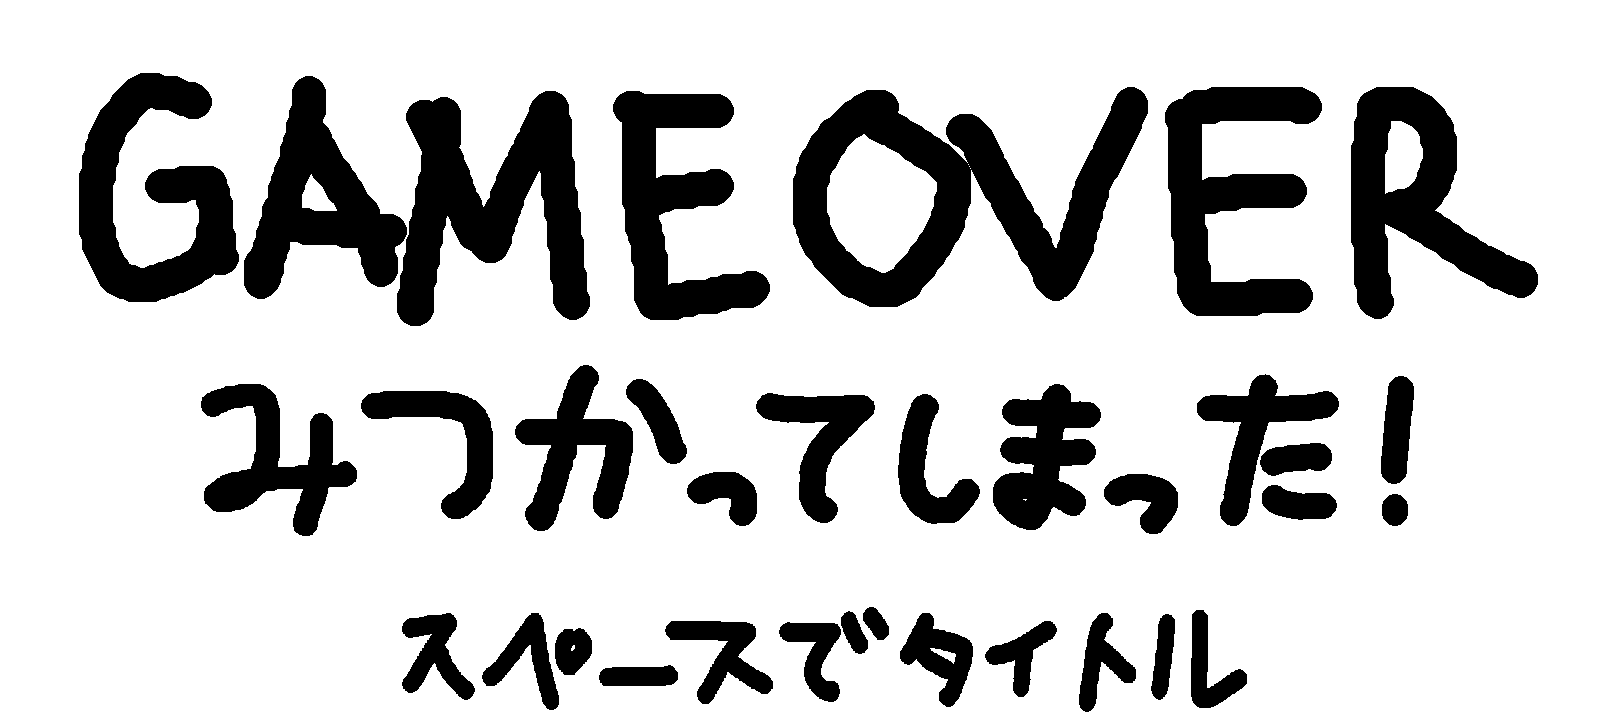
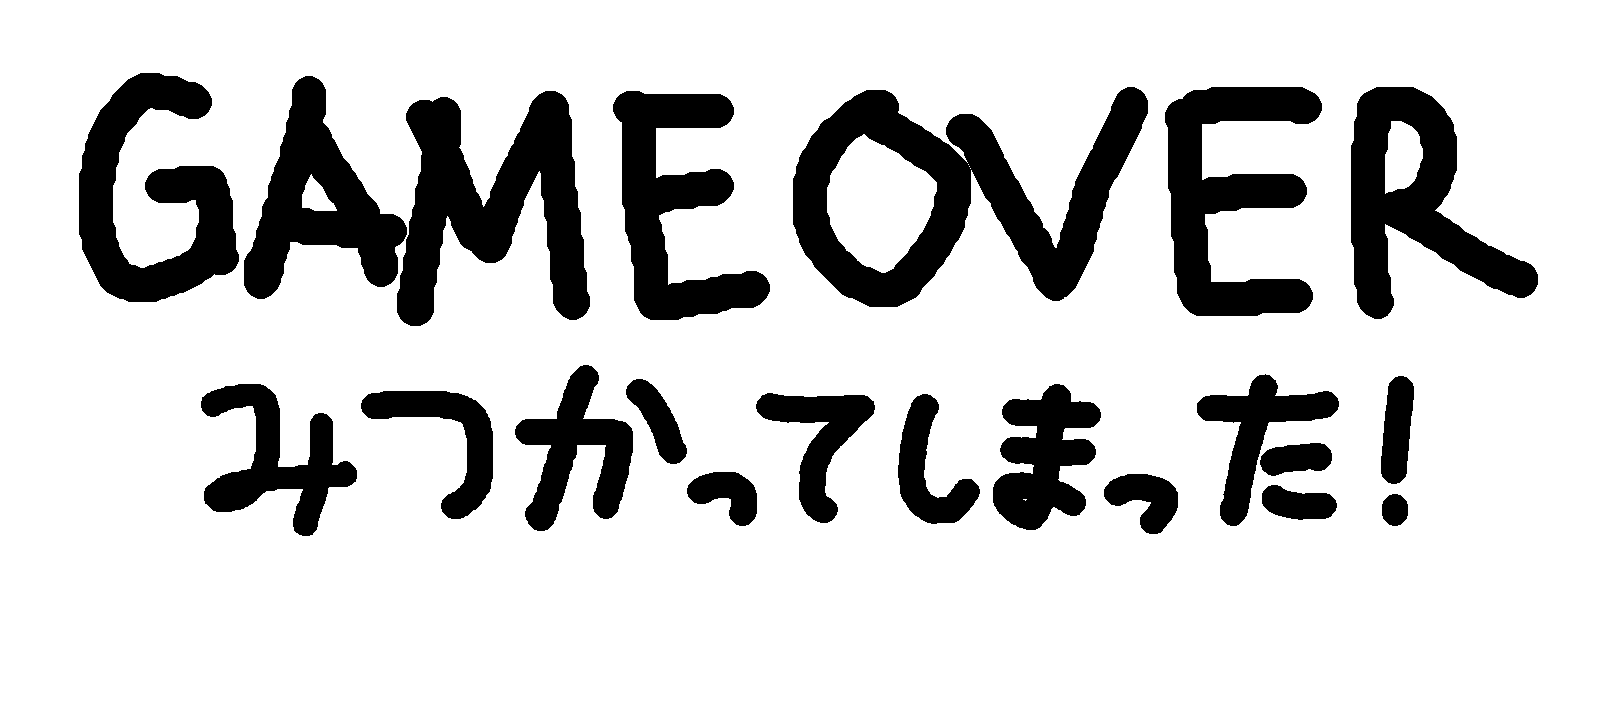
描画：オブジェクトと自機前後を交換した、ゲームオーバーの画面を追加しました 更新：caseゲームオーバーに関する付けました

Changed region(s): [[0.25, 0.825, 0.7812, 1.0]]

diff --git a/main.cpp b/main.cpp
@@ -121,9 +121,16 @@ int WINAPI WinMain(HINSTANCE, HINSTANCE, LPSTR, int)
 	//
 	int score[4] = { 0 };
 
-	/*int titleTimer = 0;*/
 
 	/*リソース関連*/
+
+	//タイトルに関するタイマー
+	int titleTimer = 0;
+	int titleTimer2 = 0;
+	//ゲームオーバーに関するタイマー＆＆フラグ
+	int gameOverTimer = 0;
+	int gameOverFlag = 0;
+	int gameOverFlagTimer = 0;
 
 	//飼い主
 	int ownerTexHundle[] =
@@ -145,11 +152,17 @@ int WINAPI WinMain(HINSTANCE, HINSTANCE, LPSTR, int)
 		Novice::LoadTexture("./Resources./Pictures./title.png"),//差し替えました
 		Novice::LoadTexture("./Resources./Pictures./background.png"),//差し替えました
 		Novice::LoadTexture("./Resources./Pictures./stage.png"),//差し替えました
-		Novice::LoadTexture("./Resources./Pictures./gameOver.png"),
-		Novice::LoadTexture("./Resources./Pictures./title2.png")//タイトル２追加した
+		Novice::LoadTexture("./Resources./Pictures./gameover.png"),
+		Novice::LoadTexture("./Resources./Pictures./title2.png"),//タイトル2追加した
+		Novice::LoadTexture("./Resources./Pictures./gameover2.png")//ゲームオーバー2追加
+
 	};
 	//スコア用の数字
 	int numberHandle = Novice::LoadTexture("./Resources./Pictures./num.png");
+	int scoreHandle = Novice::LoadTexture("./Resources./Pictures./score.png");
+
+	//隠れ場所
+	int bookHandle = Novice::LoadTexture("./Resources./Pictures./book.png");
 
 	//プレイヤー
 #pragma region //WalkTexturhandle
@@ -215,6 +228,28 @@ int WINAPI WinMain(HINSTANCE, HINSTANCE, LPSTR, int)
 		{
 		case TITLE: //タイトル
 
+			//タイトルの表示タイマ
+			if (titleTimer < 30)
+			{
+				titleTimer++;
+
+			}
+			else
+			{
+				titleTimer = 0;
+			}
+
+			if (titleTimer2 < 39)
+			{
+				titleTimer2++;
+
+			}
+			else
+			{
+				titleTimer2 = 0;
+			}
+
+
 			if (keys[DIK_RETURN] && !preKeys[DIK_RETURN])
 			{
 				scene = TUTORIAL;
@@ -239,16 +274,6 @@ int WINAPI WinMain(HINSTANCE, HINSTANCE, LPSTR, int)
 			}
 
 
-			////titleTimer追加
-			//if (titleTimer < 30)
-			//{
-			//	titleTimer++;
-			//}
-
-			//else if (titleTimer > 60)
-			//{
-			//	titleTimer = 0;
-			//}
 
 
 
@@ -269,7 +294,7 @@ int WINAPI WinMain(HINSTANCE, HINSTANCE, LPSTR, int)
 			player.Velocity.X = 0;
 
 			//ベクトル決め
-			if (keys[DIK_A] || keys[DIK_LEFT])
+			if (keys[DIK_A])
 			{
 				player.Velocity.X = -1;
 
@@ -288,7 +313,7 @@ int WINAPI WinMain(HINSTANCE, HINSTANCE, LPSTR, int)
 				walkFlagL = 0;
 				walkTimerL = 0;
 			}
-			if (keys[DIK_D] || keys[DIK_RIGHT])
+			if (keys[DIK_D])
 			{
 				player.Velocity.X = 1;
 				//歩く描画Right
@@ -323,7 +348,7 @@ int WINAPI WinMain(HINSTANCE, HINSTANCE, LPSTR, int)
 			if (runFlag)
 			{
 				//ダッシュしているときのみ慣性を持たせる
-				if (keys[DIK_A] || keys[DIK_LEFT])
+				if (keys[DIK_A])
 				{
 
 					runFlagL = 1;
@@ -344,7 +369,7 @@ int WINAPI WinMain(HINSTANCE, HINSTANCE, LPSTR, int)
 					runTimerL = 0;
 				}
 
-				if (keys[DIK_D] || keys[DIK_RIGHT])
+				if (keys[DIK_D])
 				{
 					runFlagR = 1;
 					if (runPower <= 6.0f)
@@ -673,7 +698,7 @@ int WINAPI WinMain(HINSTANCE, HINSTANCE, LPSTR, int)
 				else if (!safeFlag && isOwnerLook)
 				{
 					//プレイヤーの死亡処理
-					//isPAlive = false;
+					isPAlive = false;
 				}
 				//ownerTimerが660となっているがサカイのPCが165fpsであるため
 				//165*4(つまりサカイのPC上で3秒)で660となっている。
@@ -746,10 +771,34 @@ int WINAPI WinMain(HINSTANCE, HINSTANCE, LPSTR, int)
 
 		case GAMEOVER: //ゲームオーバー
 
-			if (keys[DIK_RETURN] && !preKeys[DIK_RETURN])
+			//ゲームオーバーに関するタイマー
+			if (gameOverTimer < 30)
 			{
-				scene = TITLE;
+				gameOverTimer++;
 			}
+			else
+			{
+				gameOverTimer = 0;
+			}
+			//エンター連打でゲームオーバー画面を通り抜けないためのフラグ
+			if (gameOverFlagTimer < 100)
+			{
+				gameOverFlagTimer++;
+			}
+			else
+			{
+				gameOverFlag = 1;
+			}
+			if (gameOverFlag == 1)
+			{
+				if (keys[DIK_RETURN] && !preKeys[DIK_RETURN])
+				{
+					scene = TITLE;
+					gameOverFlagTimer = 0;
+					gameOverFlag = 0;
+				}
+			}
+
 
 			break;
 		}
@@ -768,12 +817,31 @@ int WINAPI WinMain(HINSTANCE, HINSTANCE, LPSTR, int)
 			//背景
 			Novice::DrawSprite(0, 0, bgTexHundle[1], 1, 1, 0, WHITE);
 
-			Novice::DrawSprite(0, 0, bgTexHundle[0], 1, 1, 0, WHITE);
-			/*if (titleTimer > 31)
+			if (titleTimer2 < 10)
 			{
-				Novice::DrawSprite(0, 0, bgTexHundle[0], 1, 1, 0, WHITE);
+				Novice::DrawSpriteRect(600, 600, 0, 0, 128, 128, walkSheetR, ((float)128 / (float)512), 1, 0.0f, 0xFFFFFFFF);
+			}
+			if (titleTimer2 > 9 && titleTimer2 < 20)
+			{
+				Novice::DrawSpriteRect(600, 600, 128, 0, 128, 128, walkSheetR, ((float)128 / (float)512), 1, 0.0f, 0xFFFFFFFF);
+			}
+			if (titleTimer2 > 19 && titleTimer2 < 30)
+			{
+				Novice::DrawSpriteRect(600, 600, 256, 0, 128, 128, walkSheetR, ((float)128 / (float)512), 1, 0.0f, 0xFFFFFFFF);
+			}
+			if (titleTimer2 > 29 && titleTimer2 < 40)
+			{
+				Novice::DrawSpriteRect(600, 600, 384, 0, 128, 128, walkSheetR, ((float)128 / (float)512), 1, 0.0f, 0xFFFFFFFF);
+			}
 
-			}*/
+
+
+			Novice::DrawSprite(0, 0, bgTexHundle[0], 1, 1, 0, WHITE);
+			if (titleTimer < 15)
+			{
+				Novice::DrawSprite(600, 400, bgTexHundle[4], 1, 1, 0, WHITE);
+
+			}
 			break;
 
 		case TUTORIAL: //チュートリアル
@@ -787,7 +855,7 @@ int WINAPI WinMain(HINSTANCE, HINSTANCE, LPSTR, int)
 			//背景
 			Novice::DrawSprite(0, 0, bgTexHundle[1], 1, 1, 0, WHITE);
 
-			//飼い主
+
 			if (ownerTimer <= 650)
 			{
 				Novice::DrawSprite(280, 0, ownerTexHundle[0], 1, 1, 0, WHITE);
@@ -805,9 +873,42 @@ int WINAPI WinMain(HINSTANCE, HINSTANCE, LPSTR, int)
 			//ブロック(隠れる場所)
 			for (int i = 0; i < bNum; i++)
 			{
-				fLib->DrawSquares(block, i);
+				Novice::DrawSprite((int)(block[i].Center.X - block[i].Rad), (int)(block[i].Center.Y - block[i].Rad), bookHandle, 1, 1, 0.0f, WHITE);
 			}
-			// 自機
+#pragma region //object
+			//軽いオブジェクト
+			for (int i = 0; i < remainObj; i++)
+			{
+				if (obj[i].IsAlive && !obj[i].WeightFlag)
+				{
+					Novice::DrawSprite(int(obj[i].Info.Center.X - obj[i].Info.Rad), int(obj[i].Info.Center.Y - obj[i].Info.Rad), objTexHundle[0], 1, 1, 0, WHITE);
+				}
+			}
+			//重いオブジェクト
+			for (int i = 0; i < remainObj; i++)
+			{
+				if (obj[i].IsAlive && obj[i].WeightFlag)
+				{
+					if (obj[i].Hp == 3)
+					{
+						Novice::DrawSprite(int(obj[i].Info.Center.X - obj[i].Info.Rad * 2), int(obj[i].Info.Center.Y - obj[i].Info.Rad * 2), objTexHundle[1], 1, 1, 0, WHITE);
+					}
+					else if (obj[i].Hp == 2)
+					{
+						Novice::DrawSprite(int(obj[i].Info.Center.X - obj[i].Info.Rad * 2), int(obj[i].Info.Center.Y - obj[i].Info.Rad * 2), objTexHundle[2], 1, 1, 0, WHITE);
+					}
+					else if (obj[i].Hp == 1)
+					{
+						Novice::DrawSprite(int(obj[i].Info.Center.X - obj[i].Info.Rad * 2), int(obj[i].Info.Center.Y - obj[i].Info.Rad * 2), objTexHundle[3], 1, 1, 0, WHITE);
+					}
+				}
+			}
+#pragma endregion
+
+#pragma region 			// 自機
+
+
+
 
 			if (isPAlive)
 			{
@@ -932,7 +1033,7 @@ int WINAPI WinMain(HINSTANCE, HINSTANCE, LPSTR, int)
 				{
 					if (!attackFlag)
 					{
-						if (runFlagL == 1)
+						if (runFlagL && !runFlagR)
 						{
 							if (runTimerL < 6)
 							{
@@ -943,7 +1044,7 @@ int WINAPI WinMain(HINSTANCE, HINSTANCE, LPSTR, int)
 								Novice::DrawSpriteRect(int(player.Center.X - player.Rad), int(player.Center.Y - player.Rad), 160, 0, 160, 128, runSheetL, ((float)160 / (float)320), 1, 0.0f, 0xFFFFFFFF);
 							}
 						}
-						if (runFlagR == 1)
+						if ((runFlagR && !runFlagL) || (runFlagL && runFlagR))
 						{
 							if (runTimerR < 6)
 							{
@@ -958,41 +1059,14 @@ int WINAPI WinMain(HINSTANCE, HINSTANCE, LPSTR, int)
 				}
 			}
 
+#pragma endregion
 
-
-
-			//軽いオブジェクト
-			for (int i = 0; i < remainObj; i++)
-			{
-				if (obj[i].IsAlive && !obj[i].WeightFlag)
-				{
-					Novice::DrawSprite(int(obj[i].Info.Center.X - obj[i].Info.Rad), int(obj[i].Info.Center.Y - obj[i].Info.Rad), objTexHundle[0], 1, 1, 0, WHITE);
-				}
-			}
-			//重いオブジェクト
-			for (int i = 0; i < remainObj; i++)
-			{
-				if (obj[i].IsAlive && obj[i].WeightFlag)
-				{
-					if (obj[i].Hp == 3)
-					{
-						Novice::DrawSprite(int(obj[i].Info.Center.X - obj[i].Info.Rad * 2), int(obj[i].Info.Center.Y - obj[i].Info.Rad * 2), objTexHundle[1], 1, 1, 0, WHITE);
-					}
-					else if (obj[i].Hp == 2)
-					{
-						Novice::DrawSprite(int(obj[i].Info.Center.X - obj[i].Info.Rad * 2), int(obj[i].Info.Center.Y - obj[i].Info.Rad * 2), objTexHundle[2], 1, 1, 0, WHITE);
-					}
-					else if (obj[i].Hp == 1)
-					{
-						Novice::DrawSprite(int(obj[i].Info.Center.X - obj[i].Info.Rad * 2), int(obj[i].Info.Center.Y - obj[i].Info.Rad * 2), objTexHundle[3], 1, 1, 0, WHITE);
-					}
-				}
-			}
 			//警告の演出
 			Novice::DrawBox(0, 0, WINDOW_WIDTH, WINDOW_HEIGHT, 0, ownerEffect, kFillModeSolid);
 			//隠れる演出
 			Novice::DrawBox(0, 0, WINDOW_WIDTH, WINDOW_HEIGHT, 0, hideEffect, kFillModeSolid);
 			//スコア
+			Novice::DrawSprite(1225, 0, scoreHandle, 1, 1, 0, WHITE);
 			for (int i = 0; i < 4; i++)
 			{
 				if (score[i] == 0)
@@ -1041,8 +1115,58 @@ int WINAPI WinMain(HINSTANCE, HINSTANCE, LPSTR, int)
 
 		case GAMEOVER: //ゲームオーバー
 
-			Novice::DrawSprite(0, 0, bgTexHundle[3], 1, 1, 0, WHITE);
+			Novice::DrawSprite(0, 0, bgTexHundle[1], 1, 1, 0, WHITE);
 
+			Novice::DrawSprite(640, 0, scoreHandle, 1, 1, 0, WHITE);
+			for (int i = 0; i < 4; i++)
+			{
+				if (score[i] == 0)
+				{
+					Novice::DrawSpriteRect(840 + i * 32, 0, 0, 0, 32, 32, numberHandle, ((float)32 / (float)320), 1, 0.0f, 0xFFFFFFFF);
+				}
+				if (score[i] == 1)
+				{
+					Novice::DrawSpriteRect(840 + i * 32, 0, 32, 0, 32, 32, numberHandle, ((float)32 / (float)320), 1, 0.0f, 0xFFFFFFFF);
+				}
+				if (score[i] == 2)
+				{
+					Novice::DrawSpriteRect(840 + i * 32, 0, 64, 0, 32, 32, numberHandle, ((float)32 / (float)320), 1, 0.0f, 0xFFFFFFFF);
+				}
+				if (score[i] == 3)
+				{
+					Novice::DrawSpriteRect(840 + i * 32, 0, 96, 0, 32, 32, numberHandle, ((float)32 / (float)320), 1, 0.0f, 0xFFFFFFFF);
+				}
+				if (score[i] == 4)
+				{
+					Novice::DrawSpriteRect(840 + i * 32, 0, 128, 0, 32, 32, numberHandle, ((float)32 / (float)320), 1, 0.0f, 0xFFFFFFFF);
+				}
+				if (score[i] == 5)
+				{
+					Novice::DrawSpriteRect(840 + i * 32, 0, 160, 0, 32, 32, numberHandle, ((float)32 / (float)320), 1, 0.0f, 0xFFFFFFFF);
+				}
+				if (score[i] == 6)
+				{
+					Novice::DrawSpriteRect(840 + i * 32, 0, 192, 0, 32, 32, numberHandle, ((float)32 / (float)320), 1, 0.0f, 0xFFFFFFFF);
+				}
+				if (score[i] == 7)
+				{
+					Novice::DrawSpriteRect(840 + i * 32, 0, 224, 0, 32, 32, numberHandle, ((float)32 / (float)320), 1, 0.0f, 0xFFFFFFFF);
+				}
+				if (score[i] == 8)
+				{
+					Novice::DrawSpriteRect(840 + i * 32, 0, 256, 0, 32, 32, numberHandle, ((float)32 / (float)320), 1, 0.0f, 0xFFFFFFFF);
+				}
+				if (score[i] == 9)
+				{
+					Novice::DrawSpriteRect(840 + i * 32, 0, 288, 0, 32, 32, numberHandle, ((float)32 / (float)320), 1, 0.0f, 0xFFFFFFFF);
+				}
+			}
+
+			Novice::DrawSprite(0, 0, bgTexHundle[3], 1, 1, 0, WHITE);
+			if (gameOverTimer < 15)
+			{
+				Novice::DrawSprite(0, 0, bgTexHundle[5], 1, 1, 0, WHITE);
+			}
 			break;
 		}
 
